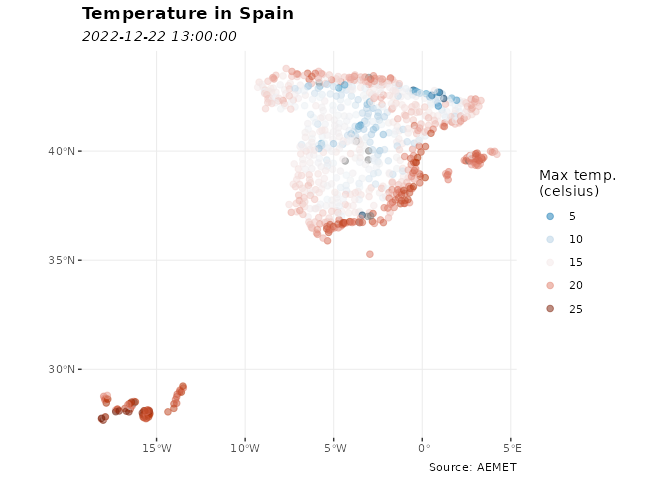
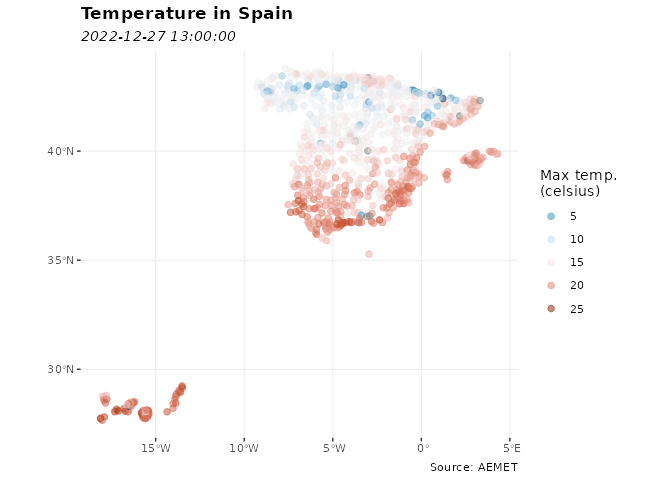
Update docs with pkgdev

diff --git a/README.md b/README.md
@@ -121,20 +121,20 @@ library(climaemet)
 # See a tibble in action
 
 aemet_last_obs("9434")
-#> # A tibble: 24 × 25
+#> # A tibble: 23 × 25
 #>    idema   lon fint                 prec   alt  vmax    vv    dv   lat  dmax
 #>    <chr> <dbl> <dttm>              <dbl> <dbl> <dbl> <dbl> <dbl> <dbl> <dbl>
-#>  1 9434  -1.00 2022-12-22 13:00:00     0   249   1.7   0.8   343  41.7   310
-#>  2 9434  -1.00 2022-12-22 14:00:00     0   249  12.1   7.8   275  41.7   280
-#>  3 9434  -1.00 2022-12-22 15:00:00     0   249  10.3   3.4   310  41.7   268
-#>  4 9434  -1.00 2022-12-22 16:00:00     0   249   3.5   2     276  41.7   325
-#>  5 9434  -1.00 2022-12-22 17:00:00     0   249   3.6   1.6   302  41.7   253
-#>  6 9434  -1.00 2022-12-22 18:00:00     0   249   7.6   5.5   275  41.7   270
-#>  7 9434  -1.00 2022-12-22 19:00:00     0   249   7.1   4.5   309  41.7   278
-#>  8 9434  -1.00 2022-12-22 20:00:00     0   249   7.8   4.3   309  41.7   308
-#>  9 9434  -1.00 2022-12-22 21:00:00     0   249   8.9   5     281  41.7   268
-#> 10 9434  -1.00 2022-12-22 22:00:00     0   249   5.6   3.4   283  41.7   290
-#> # … with 14 more rows, and 15 more variables: ubi <chr>, pres <dbl>, hr <dbl>,
+#>  1 9434  -1.00 2022-12-27 13:00:00     0   249   3     1     117  41.7    60
+#>  2 9434  -1.00 2022-12-27 14:00:00     0   249   3.4   2.2   121  41.7   120
+#>  3 9434  -1.00 2022-12-27 15:00:00     0   249   3.1   2.3   120  41.7   128
+#>  4 9434  -1.00 2022-12-27 16:00:00     0   249   3.4   1.1    99  41.7   148
+#>  5 9434  -1.00 2022-12-27 17:00:00     0   249   2.2   1.8   129  41.7   143
+#>  6 9434  -1.00 2022-12-27 18:00:00     0   249   2.6   1      52  41.7   133
+#>  7 9434  -1.00 2022-12-27 19:00:00     0   249   2     0.9    98  41.7    90
+#>  8 9434  -1.00 2022-12-27 20:00:00     0   249   2.1   1.6   113  41.7   115
+#>  9 9434  -1.00 2022-12-27 21:00:00     0   249   1.7   0.5   238  41.7   118
+#> 10 9434  -1.00 2022-12-27 22:00:00     0   249   1.8   0.8   300  41.7   253
+#> # … with 13 more rows, and 15 more variables: ubi <chr>, pres <dbl>, hr <dbl>,
 #> #   stdvv <dbl>, ts <dbl>, pres_nmar <dbl>, tamin <dbl>, ta <dbl>, tamax <dbl>,
 #> #   tpr <dbl>, stddv <dbl>, inso <dbl>, tss5cm <dbl>, pacutp <dbl>,
 #> #   tss20cm <dbl>
@@ -172,14 +172,14 @@ data_observation <- aemet_last_obs(station)
 knitr::kable(head(data_observation))
 ```
 
-| idema |       lon | fint                | prec | alt | vmax |  vv |  dv |      lat | dmax | ubi                 |  pres |  hr | stdvv |   ts | pres_nmar | tamin |   ta | tamax |  tpr | stddv | inso | tss5cm | pacutp | tss20cm |
-|:------|----------:|:--------------------|-----:|----:|-----:|----:|----:|---------:|-----:|:--------------------|------:|----:|------:|-----:|----------:|------:|-----:|------:|-----:|------:|-----:|-------:|-------:|--------:|
-| 9434  | -1.004167 | 2022-12-22 13:00:00 |    0 | 249 |  1.7 | 0.8 | 343 | 41.66056 |  310 | ZARAGOZA AEROPUERTO | 994.2 |  67 |   0.3 | 19.5 |    1024.1 |  15.0 | 16.6 |  16.6 | 10.4 |   123 | 60.0 |   12.4 |      0 |     9.7 |
-| 9434  | -1.004167 | 2022-12-22 14:00:00 |    0 | 249 | 12.1 | 7.8 | 275 | 41.66056 |  280 | ZARAGOZA AEROPUERTO | 993.3 |  58 |   1.1 | 19.0 |    1022.9 |  16.6 | 18.7 |  18.7 | 10.3 |     7 | 60.0 |   12.9 |      0 |    10.0 |
-| 9434  | -1.004167 | 2022-12-22 15:00:00 |    0 | 249 | 10.3 | 3.4 | 310 | 41.66056 |  268 | ZARAGOZA AEROPUERTO | 993.5 |  60 |   0.8 | 18.6 |    1023.1 |  18.7 | 18.7 |  18.8 | 10.8 |    19 | 60.0 |   13.0 |      0 |    10.4 |
-| 9434  | -1.004167 | 2022-12-22 16:00:00 |    0 | 249 |  3.5 | 2.0 | 276 | 41.66056 |  325 | ZARAGOZA AEROPUERTO | 994.0 |  65 |   0.2 | 16.3 |    1023.8 |  17.3 | 17.3 |  18.7 | 10.6 |     7 | 48.4 |   12.8 |      0 |    10.7 |
-| 9434  | -1.004167 | 2022-12-22 17:00:00 |    0 | 249 |  3.6 | 1.6 | 302 | 41.66056 |  253 | ZARAGOZA AEROPUERTO | 994.1 |  73 |   0.3 | 12.9 |    1024.1 |  15.1 | 15.1 |  17.3 | 10.3 |    12 |  0.0 |   12.3 |      0 |    11.0 |
-| 9434  | -1.004167 | 2022-12-22 18:00:00 |    0 | 249 |  7.6 | 5.5 | 275 | 41.66056 |  270 | ZARAGOZA AEROPUERTO | 994.0 |  71 |   0.7 | 15.1 |    1023.9 |  15.0 | 16.0 |  16.1 | 10.8 |     8 |  0.0 |   11.9 |      0 |    11.2 |
+| idema |       lon | fint                | prec | alt | vmax |  vv |  dv |      lat | dmax | ubi                 |  pres |  hr | stdvv |   ts | pres_nmar | tamin |   ta | tamax | tpr | stddv | inso | tss5cm | pacutp | tss20cm |
+|:------|----------:|:--------------------|-----:|----:|-----:|----:|----:|---------:|-----:|:--------------------|------:|----:|------:|-----:|----------:|------:|-----:|------:|----:|------:|-----:|-------:|-------:|--------:|
+| 9434  | -1.004167 | 2022-12-27 13:00:00 |    0 | 249 |  3.0 | 1.0 | 117 | 41.66056 |   60 | ZARAGOZA AEROPUERTO | 999.9 |  67 |   0.3 | 16.3 |    1030.3 |  11.9 | 13.7 |  13.7 | 7.7 |    27 | 60.0 |   10.7 |      0 |     8.5 |
+| 9434  | -1.004167 | 2022-12-27 14:00:00 |    0 | 249 |  3.4 | 2.2 | 121 | 41.66056 |  120 | ZARAGOZA AEROPUERTO | 999.3 |  62 |   0.3 | 16.1 |    1029.5 |  13.7 | 14.8 |  14.8 | 7.6 |    11 | 60.0 |   11.5 |      0 |     8.8 |
+| 9434  | -1.004167 | 2022-12-27 15:00:00 |    0 | 249 |  3.1 | 2.3 | 120 | 41.66056 |  128 | ZARAGOZA AEROPUERTO | 998.9 |  61 |   0.2 | 14.3 |    1029.0 |  14.8 | 15.4 |  15.5 | 8.0 |     8 | 60.0 |   11.5 |      0 |     9.2 |
+| 9434  | -1.004167 | 2022-12-27 16:00:00 |    0 | 249 |  3.4 | 1.1 |  99 | 41.66056 |  148 | ZARAGOZA AEROPUERTO | 998.9 |  63 |   0.2 | 14.3 |    1029.1 |  15.3 | 15.3 |  15.5 | 8.3 |    25 | 60.0 |   11.2 |      0 |     9.5 |
+| 9434  | -1.004167 | 2022-12-27 17:00:00 |    0 | 249 |  2.2 | 1.8 | 129 | 41.66056 |  143 | ZARAGOZA AEROPUERTO | 999.1 |  72 |   0.1 | 10.4 |    1029.6 |  12.6 | 12.6 |  15.3 | 7.7 |    13 | 23.4 |   10.6 |      0 |     9.8 |
+| 9434  | -1.004167 | 2022-12-27 18:00:00 |    0 | 249 |  2.6 | 1.0 |  52 | 41.66056 |  133 | ZARAGOZA AEROPUERTO | 999.2 |  80 |   0.3 |  7.6 |    1029.9 |  10.6 | 10.6 |  12.6 | 7.3 |    18 |  0.0 |    9.9 |      0 |     9.9 |
 
 ``` r
 
